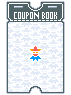
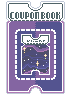
new coupon book art, add params to new centerhook funcs,  comments

diff --git a/README.md b/README.md
@@ -165,6 +165,8 @@ A voucher card that allows you to refresh purchased booster packs
 
 **Sprite name:** `coupon book.png`
 
+**Art by: thatobserver** thank you!!!
+
 A booster pack that allows you to redeem 1 of 2 vouchers
 
 ![](https://github.com/nicholassam6425/balatro-mods/blob/main/misc%20assets/p_coupon_book.gif)
@@ -432,8 +434,8 @@ List of methods, their parameters, and what they return
         - id (string): the id you used to add the joker to the game
     - returns:
         - nothing
-- centerHook.addTarot & centerHook.addSpectral
-    adds a tarot/spectral card to the game
+- centerHook.addTarot & centerHook.addSpectral & centerHook.addPlanet
+    adds a tarot/spectral/planet card to the game
 
     (yeah they're pretty much the same)
     - parameters:
@@ -465,11 +467,94 @@ List of methods, their parameters, and what they return
             > You **MUST** have 1x and 2x folders in your `sprite_path` folder. 
             - If your sprites are located in `Roaming/Balatro/assets/1x` or `Roaming/Balatro/assets/2x`, then your `sprite_path` will simply be `"assets"`. I'll look at making this more flexible in the future.
     - returns:
-        - newTarot (table): the table that defines that card that gets loaded into the game
-        - newTarotText (table): the table that holds all the card text data
-- centerHook.removeTarot & centerHook.removeSpectral
-    remove a **modded** tarot/spectral from the game
+        - newTarot/newSpectral/newPlanet (table): the table that defines that card that gets loaded into the game
+        - newTarotText/newSpectralText/newPlanetText (table): the table that holds all the card text data
+- centerHook.removeTarot & centerHook.removeSpectral & centerHook.removePlanet
+    remove a **modded** tarot/spectral/planet from the game
     - parameters:
-        - id (string): the id you used to add the tarot to the game
+        - id (string): the id you used to add the card to the game
+    - returns:
+        - nothing
+- centerHook.addVoucher
+    add a voucher to the game
+    - parameters:
+        - id (string): the internal name of the consumeable card (i.e "c_humanity_arachnei")
+            - I'd suggest adding a unique modifier to your id, like how I add my name to the end of the id to avoid easily avoidable mod conflicts.
+        - name (string): the actual name of the consumeable card (i.e "Jokers")
+            - This is used both for the display name of the card, as well as for how the game knows which 'card' is currently being used. I may separate these two values in the future to avoid mod conflicts
+        - voucher_effect (function): the effect ON REDEEM
+            - This function does not require a `return` statement. This effect only happens once, when the voucher is redeemed. *Hobby Shop* does not have an on-redeem effect, and rather changes how the shop reroll functions.
+        - order (int): a number that the game uses to order the cards in the collection tab
+            - If you're unsure what to put here, leave it as `nil`. It will add it to the end of the collection.
+        - discovered (bool): defines whether or not the card is discovered in the collection or not
+            - I haven't tested this. I think it functionally works, but visually will not use the undiscovered card sprite in the collection.
+        - cost (int): the cost of the card
+        - pos (table: {x=int, y=int}): defines the position of the card's sprite in the spritesheet
+            - If left as `nil`, it will use a blank sprite. x and y start from 0, in the top left of the sprite sheet.
+        - config (table): a table of numerical values used in the card
+            - Not really needed for a voucher, I don't think
+        - requires (table of string): a table of voucher ids required before this voucher will appear in shops
+            - I'm actually not sure if this allows more than 1 string. There's no example of it in the base game, and I don't actually know where the code for the require is. Use more than 2 requires with caution.
+        - desc (table of strings): the displayed description text of the card
+            - I'll write a separate section of description formatting soon. For now: `{C:attention}text{}` for cards, `{C:red}text{}` for mult, and `{C:chips}text{}` for chips. You can find all the game's descriptions in the localization folder of the decompiled game
+        - alerted (bool): Defines if the joker will have an alert or not in the collection
+            - Thank you HeyImKyu for finding this. 
+        - sprite_path (string)
+        - sprite_name (string)
+        - sprite_size (table {px=int, py=int})
+            > [!WARNING]
+            > You **MUST** have 1x and 2x folders in your `sprite_path` folder. 
+            - If your sprites are located in `Roaming/Balatro/assets/1x` or `Roaming/Balatro/assets/2x`, then your `sprite_path` will simply be `"assets"`. I'll look at making this more flexible in the future.
+    - returns:
+        - newVoucher (table): the table that defines that card that gets loaded into the game
+        - newVoucherText (table): the table that holds all the card text data
+- centerHook.removeVoucher
+    remove a **MODDED** voucher from the game
+    - parameters:
+        - id (string): the id you used to add the card to the game
+    - returns:
+        - nothing
+- centerHook.addBooster
+    add a booster pack to the game
+    - parameters:
+        - id (string): the internal name of the consumeable card (i.e "c_humanity_arachnei")
+            - I'd suggest adding a unique modifier to your id, like how I add my name to the end of the id to avoid easily avoidable mod conflicts.
+        - name (string): the actual name of the consumeable card (i.e "Jokers")
+            - This is used both for the display name of the card, as well as for how the game knows which 'card' is currently being used. I may separate these two values in the future to avoid mod conflicts
+        - pack_contents (function): function that returns the pack contents
+            - This is called `config.extra` times. It should return 1 `card` object. Vanilla examples are found in `Card:open` in `card.lua`
+            - order (int): a number that the game uses to order the cards in the collection tab
+            - If you're unsure what to put here, leave it as `nil`. It will add it to the end of the collection.
+        - discovered (bool): defines whether or not the card is discovered in the collection or not
+            - I haven't tested this. I think it functionally works, but visually will not use the undiscovered card sprite in the collection.
+        - weight (float): the likelihood the booster pack will appear in the shop
+            - lower number = lower rate. Vanilla weights are 0.15-1.0. IMO avoid using weights over 1.5, except for testing reasons, as it would make your booster appear much too frequently
+        - kind (string): what 'kind' of booster pack it is
+            - i'm pretty sure this actually isnt even used in game logic. would be nice if it did, but the game checks what booster pack is being opened by name rather than 'kind' so... yeah.
+        - cost (int): the cost of the card
+        - pos (table: {x=int, y=int}): defines the position of the card's sprite in the spritesheet
+            - If left as `nil`, it will use a blank sprite. x and y start from 0, in the top left of the sprite sheet.
+        - config (table): a table of numerical values used in the card
+            - **REQUIRES** {extra: int, choose: int}
+            - `extra` represents how many cards you can choose out of, `choose` represents how many cards you can choose. I.E Mega Buffoon Pack would be `{extra=4, choose=2}`
+        - requires (table of string): a table of voucher ids required before this voucher will appear in shops
+            - I'm actually not sure if this allows more than 1 string. There's no example of it in the base game, and I don't actually know where the code for the require is. Use more than 2 requires with caution.
+        - desc (table of strings): the displayed description text of the card
+            - I'll write a separate section of description formatting soon. For now: `{C:attention}text{}` for cards, `{C:red}text{}` for mult, and `{C:chips}text{}` for chips. You can find all the game's descriptions in the localization folder of the decompiled game
+        - alerted (bool): Defines if the joker will have an alert or not in the collection
+            - Thank you HeyImKyu for finding this. 
+        - sprite_path (string)
+        - sprite_name (string)
+        - sprite_size (table {px=int, py=int})
+            > [!WARNING]
+            > You **MUST** have 1x and 2x folders in your `sprite_path` folder. 
+            - If your sprites are located in `Roaming/Balatro/assets/1x` or `Roaming/Balatro/assets/2x`, then your `sprite_path` will simply be `"assets"`. I'll look at making this more flexible in the future.
+    - returns:
+        - newBooster (table): the table that defines that card that gets loaded into the game
+        - newBoosterText (table): the table that holds all the card text data
+- centerHook.removeBooster
+    remove a **MODDED** booster from the game
+    - parameters:
+        - id (string): the id you used to add the card to the game
     - returns:
         - nothing
